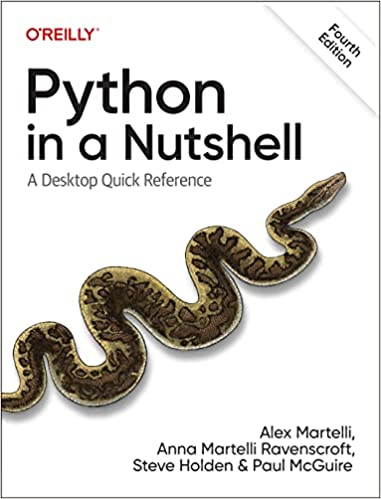
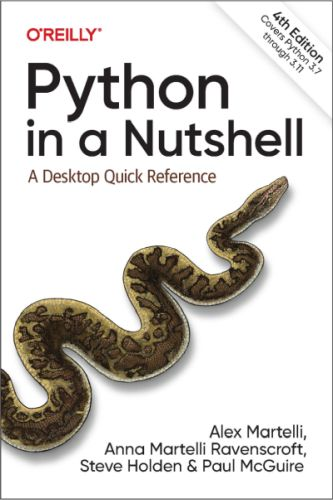
Update match_statement_configuring_classes_for_positional_matching.py to reflect refactoring for readability and avoid name clashes; update book cover and contents in README.md

diff --git a/03_The_Python_Language/match_statement_configuring_classes_for_positional_matching.py b/03_The_Python_Language/match_statement_configuring_classes_for_positional_matching.py
@@ -5,23 +5,24 @@
 ...         self.name = name
 ...         self.red, self.green, self.blue = r, g, b
 ...
->>> red_color = Color(255, 0, 0, 'red')
->>> blue_color = Color(0, 0, 255)
->>> for subject in (42.0, red_color, blue_color):
+>>> color_red = Color(255, 0, 0, 'red')
+>>> color_blue = Color(0, 0, 255)
+>>> for subject in (42.0, color_red, color_blue):
 ...     match subject:
 ...         case float(x):
 ...             print('float', x)
 ...         case Color(red, green, blue, name='red'):
 ...             print(type(subject).__name__, subject.name, red, green, blue)
-...         case Color(a, b, 255) as bluish:
-...             print(type(bluish).__name__, a, b, bluish.blue, bluish.name)
+...         case Color(red, green, 255) as color:
+...             print(type(subject).__name__, color.name, red, green, color.blue)
 ...         case _: print(type(subject), subject)
 ...
 float 42.0
 Color red 255 0 0
-Color 0 0 255 anonymous
->>> match red:
-...     case Color(1, 2, 3, 4): print("matched")
+Color anonymous 0 0 255
+>>> match color_red:
+...     case Color(red, green, blue, name):
+...         print("matched")
 ...
 Traceback (most recent call last):
   ...

diff --git a/README.md b/README.md
@@ -1,8 +1,48 @@
-# Code Snippets from Python in a Nutshell, 4 Ed.
-## Alex Martelli, Anna Martelli Ravenscroft, Steve Holden, and Paul McGuire
-## Published 2022, by O'Reilly Media Inc.
+# Online Content and Code Snippets for Python in a Nutshell, 4 Ed.
 
 ![Image](static/Pian_cover2.jpg)
 
-This repository contains the code snippets presented in 
+### Copyright © 2023, by Alex Martelli, Anna Ravenscroft, Steve Holden, and Paul McGuire. All rights reserved.
+### Published by O'Reilly Media Inc.
+
+This repository contains the online content and code snippets presented in 
 [Python in a Nutshell, 4 Ed.](https://www.oreilly.com/library/view/python-in-a/9781098113544/)
+
+
+## Online Chapters
+
+- Chapter 24 - [Packaging Programs and Extensions](./chapters/24%20Packaging%20Programs%20and%20Extensions.pdf)
+- Chapter 25 - [Extending and Embedding Classic Python](./chapters/25%20Extending%20and%20Embedding%20Classic%20Python.pdf)
+
+## Code Snippets
+
+- Chapter 1 - [Introduction to Python](./01_Introduction_to_Python)
+- Chapter 2 - [The Python Interpreter](./02_The_Python_Interpreter)
+- Chapter 3 - [The Python Language](./03_The_Python_Language)
+- Chapter 4 - [Object-Oriented Python](./04_Object_Oriented_Python)
+- Chapter 5 - [Type Annotations](./05_Type_Annotations)
+- Chapter 6 - [Exceptions](./06_Exceptions)
+- Chapter 7 - [Modules](./07_Modules)
+- Chapter 8 - [Core Builtins and Standard Library Modules](./08_Core_Builtins_and_Standard_Library_Modules)
+- Chapter 9 - [Strings and Things](./09_Strings_and_Things)
+- Chapter 10 - [Regular Expressions](./10_Regular_Expressions)
+- Chapter 11 - [File and Text Operations](./11_File_and_Text_Operations)
+- Chapter 12 - [Persistence and Databases](./12_Persistence_and_Databases)
+- Chapter 13 - [Time Operations](./13_Time_Operations)
+- Chapter 14 - [Controlling Execution](./14_Contolling_Execution)
+- Chapter 15 - [Threads and Processes](./15_Threads_and_Processes)
+- Chapter 16 - [Numeric Processing](./16_Numeric_Processing)
+- Chapter 17 - [Testing, Debugging, and Optimizing](./17_Testing_Debugging_and_Optimizing)
+- Chapter 18 - [Basic Networking](./18_Basic_Networking)
+- Chapter 19 - [Client Side Network Protocol Modules](./19_client_side_network_protocol_modules)
+- Chapter 20 - [Serving HTTP](./20_serving_http)
+- Chapter 21 - [Email, MIME, and Other Network Encodings](./21_Email_MIME_and_Other_Network_Encodings)
+- Chapter 22 - [Structured Text: HTML](./22_Structured_Text_HTML)
+- Chapter 23 - [Structured Text: XML](./23_Structured_Text_XML)
+- Chapter 24 - [Distributing Extensions and Programs](./24_Distributing_Extensions_and_Programs)
+- Chapter 25 - [Extending and Embedding Classic Python](./25_Extending_and_Embedding_Classic_Python)
+
+Most code snippets will be in the form of a standard script that can be extracted. However some book examples 
+show an interactive session; for these examples, the snippets in this repository will use doctest to recreate 
+and run these sessions. You can find more information about doctest in the book content, _Chapter 17 - Testing, 
+Debugging, and Optimizing_.
